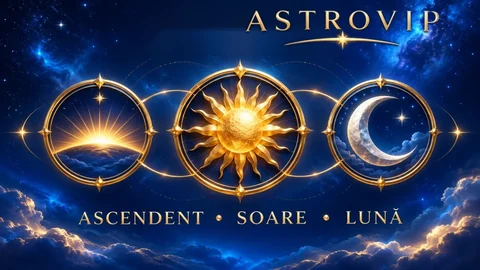
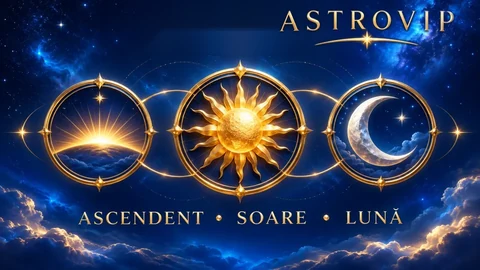
Prevent AstroVip signature badge from overlapping gold A across mobile widths

Changed region(s): [[0.5, 0.0296, 0.9688, 0.1778]]

diff --git a/index.html b/index.html
@@ -1075,7 +1075,7 @@ html body:not(.guide-page) #av-mobile-approved-home .avm-hero-copy .avm-kicker{
 <style id="interventie-2016-image-full">html body #studii-de-caz-home #studiu-interventie-2016 .av-case-showcase-visual{height:auto!important;max-height:none!important;flex:0 0 auto!important;aspect-ratio:941/1672!important}html body #studii-de-caz-home #studiu-interventie-2016 .av-case-showcase-visual>a,html body #studii-de-caz-home #studiu-interventie-2016 .av-case-showcase-visual img{height:auto!important;max-height:none!important;object-fit:contain!important;aspect-ratio:941/1672!important}</style><style id="clasa-1-1984-image-full">html body #studii-de-caz-home #studiu-clasa-1-1984 .av-case-showcase-visual{height:auto!important;max-height:none!important;flex:0 0 auto!important;aspect-ratio:941/1672!important}html body #studii-de-caz-home #studiu-clasa-1-1984 .av-case-showcase-visual>a,html body #studii-de-caz-home #studiu-clasa-1-1984 .av-case-showcase-visual img{height:auto!important;max-height:none!important;object-fit:contain!important;aspect-ratio:941/1672!important}</style><link rel="stylesheet" href="/assets/services-slider-20261101.css?v=compact50"><link rel="stylesheet" href="/assets/midpoint-slider-premium-20261102.css?v=fit-bidirectional-20261103"><link rel="stylesheet" href="/assets/home-forum-premium-20261103.css?v=single-forum-desktop-20261103">
 <script defer src="/assets/midpoint-slider-premium-20261102.js?v=fit-bidirectional-20261103"></script>
 <script defer src="/assets/home-case-desktop-marquee-20261026.js?v=restore-slider-20261103"></script>
-<link rel="stylesheet" href="/assets/triplu-profil/entry.css">
+<link rel="stylesheet" href="/assets/triplu-profil/entry.css?v=20261104-nooverlap2">
 <link rel="stylesheet" href="/assets/home-google-reviews-premium.css?v=20261103-1">
 </head>
 <body class="av-ux-refresh av-motion-live"><div id="av-consent" class="av-consent" role="dialog" aria-modal="true" aria-labelledby="av-consent-title"><div class="av-consent__inner"><h2 class="av-consent__title" id="av-consent-title">Confidențialitate și cookie-uri</h2><p class="av-consent__text">Folosim stocarea strict necesară pentru funcționarea site-ului. Cu acordul tău, putem permite măsurarea audienței și servicii Google de publicitate/personalizare. Poți refuza opționalele fără să pierzi accesul la site. <a href="/politica-cookie/">Detalii</a>.</p><div class="av-consent__prefs" id="av-consent-prefs" hidden><label class="av-consent__row"><span><strong>Necesare</strong><small>Securitate și funcționare de bază. Mereu active.</small></span><input class="av-consent__switch" type="checkbox" checked disabled aria-label="Cookie-uri necesare active"></label><label class="av-consent__row"><span><strong>Analiză</strong><small>Măsurarea traficului și performanței.</small></span><input class="av-consent__switch" id="av-consent-analytics" type="checkbox"></label><label class="av-consent__row"><span><strong>Publicitate și personalizare</strong><small>Google Ads, date pentru reclame și personalizare, dacă vor fi activate.</small></span><input class="av-consent__switch" id="av-consent-ads" type="checkbox"></label><button type="button" id="av-consent-save">Salvează selecția</button></div><div class="av-consent__actions"><button class="av-consent__reject" type="button" id="av-consent-reject">Respinge opționale</button><button type="button" id="av-consent-custom">Personalizează</button><button class="av-consent__accept" type="button" id="av-consent-accept">Acceptă toate</button></div></div></div><a class="skip-link" href="#top">Sari la conținut</a>
@@ -1178,7 +1178,7 @@ html body:not(.guide-page) #av-mobile-approved-home .avm-hero-copy .avm-kicker{
 </style><div class="av-horoscop-entry__in"><div><h2 id="av-horoscop-entry-title">Semnătura AstroVip de azi</h2><p>Horoscopul tău de azi, dincolo de simpla zodie.</p><p class="av-horoscop-entry__meta">12 zodii → 36 decani → 144 subsemne de 2,5° → ore planetare → tranzitele zilei</p></div><a href="/horoscop-azi/">DESCOPERĂ HOROSCOPUL DE AZI →</a></div></section><section class="av-pro-interests" id="servicii" aria-labelledby="av-pro-interests-title"><div class="av-pro-wrap"><div class="av-pro-heading"><p class="av-pro-kicker">Ce te interesează?</p><h2 id="av-pro-interests-title">Alege tema care contează pentru tine</h2><p>Descoperă analiza potrivită întrebării tale.</p></div><div class="av-pro-interest-grid"><a class="av-pro-interest" href="/astrologie-cariera-vocatie/"><img src="/assets/interes-cariera-20261007-480.webp" srcset="/assets/interes-cariera-20261007-320.webp 320w, /assets/interes-cariera-20261007-480.webp 480w, /assets/interes-cariera-20261007-640.webp 640w, /assets/interes-cariera-20261007-960.webp 960w" sizes="(max-width:359px) calc(100vw - 32px), (max-width:980px) 45vw, 270px" width="480" height="270" loading="lazy" decoding="async" alt="AstroVip — Carieră" fetchpriority="low"><div><h3>Carieră</h3><p>Talente, vocație și perioade de schimbare profesională.</p><span>Vezi analiza →</span></div></a><a class="av-pro-interest" href="/sinastrie/"><img src="/assets/interes-dragoste-20261007-480.webp" srcset="/assets/interes-dragoste-20261007-320.webp 320w, /assets/interes-dragoste-20261007-480.webp 480w, /assets/interes-dragoste-20261007-640.webp 640w, /assets/interes-dragoste-20261007-960.webp 960w" sizes="(max-width:359px) calc(100vw - 32px), (max-width:980px) 45vw, 270px" width="480" height="270" loading="lazy" decoding="async" alt="AstroVip — Dragoste" fetchpriority="low"><div><h3>Dragoste</h3><p>Compatibilitate, dinamica relației și timing personal.</p><span>Vezi analiza →</span></div></a><a class="av-pro-interest" href="/astrologie-afaceri/"><img src="/assets/interes-afaceri-bani-20261007-480.webp" srcset="/assets/interes-afaceri-bani-20261007-320.webp 320w, /assets/interes-afaceri-bani-20261007-480.webp 480w, /assets/interes-afaceri-bani-20261007-640.webp 640w, /assets/interes-afaceri-bani-20261007-960.webp 960w" sizes="(max-width:359px) calc(100vw - 32px), (max-width:980px) 45vw, 270px" width="480" height="270" loading="lazy" decoding="async" alt="AstroVip — Afaceri &amp; bani" fetchpriority="low"><div><h3>Afaceri & bani</h3><p>Priorități și perioade importante pentru proiectele tale.</p><span>Vezi analiza →</span></div></a><a class="av-pro-interest" href="/harta-natala/"><img src="/assets/interes-destin-20261007-480.webp" srcset="/assets/interes-destin-20261007-320.webp 320w, /assets/interes-destin-20261007-480.webp 480w, /assets/interes-destin-20261007-640.webp 640w, /assets/interes-destin-20261007-960.webp 960w" sizes="(max-width:359px) calc(100vw - 32px), (max-width:980px) 45vw, 270px" width="480" height="270" loading="lazy" decoding="async" alt="AstroVip — Destin personal" fetchpriority="low"><div><h3>Destin personal</h3><p>Reperele hărții natale și direcțiile tale de dezvoltare.</p><span>Vezi analiza →</span></div></a></div></div></section><section id="av-three-profile-entry" aria-labelledby="av-three-profile-title">
 <a class="av3-link" href="/ascendent-soare-luna/#alege-profilul" aria-describedby="av3-description">
   <div class="av3-visual">
-    <img src="/assets/triplu-profil/hero-480.webp" srcset="/assets/triplu-profil/hero-480.webp 480w, /assets/triplu-profil/hero-960.webp 960w" sizes="(max-width:680px) calc(100vw - 32px), 500px" width="960" height="540" loading="lazy" decoding="async" alt="Soarele și Luna într-o compoziție astrologică AstroVip, albastru cosmic și auriu">
+    <img src="/assets/triplu-profil/hero-480.webp?v=20261104-nooverlap2" srcset="/assets/triplu-profil/hero-480.webp?v=20261104-nooverlap2 480w, /assets/triplu-profil/hero-960.webp?v=20261104-nooverlap2 960w" sizes="(max-width:680px) calc(100vw - 32px), 500px" width="960" height="540" loading="lazy" decoding="async" alt="Soarele și Luna într-o compoziție astrologică AstroVip, albastru cosmic și auriu">
     <span class="av3-visual-kicker" aria-hidden="true"><span class="av3-spark">✦</span> ASTROVIP SIGNATURE</span>
     <span class="av3-triad" aria-hidden="true"><span>ASC</span><i>✦</i><span>SOARE</span><i>✦</i><span>LUNĂ</span></span>
   </div>

diff --git a/assets/triplu-profil/entry.css b/assets/triplu-profil/entry.css
@@ -251,3 +251,9 @@
   #av-three-profile-entry .av3-link:hover { transform: none; }
   #av-three-profile-entry .av3-link:hover .av3-visual > img { transform: none; }
 }
+
+/* Keep the AstroVip signature plaque clear of the initial A on narrow mobile viewports. */
+@media (max-width: 360px) {
+  #av-three-profile-entry .av3-visual-kicker {font-size: 8px; letter-spacing: .08em; gap: 7px; padding: 6px 9px;}
+  #av-three-profile-entry .av3-spark {font-size: 13px;}
+}
